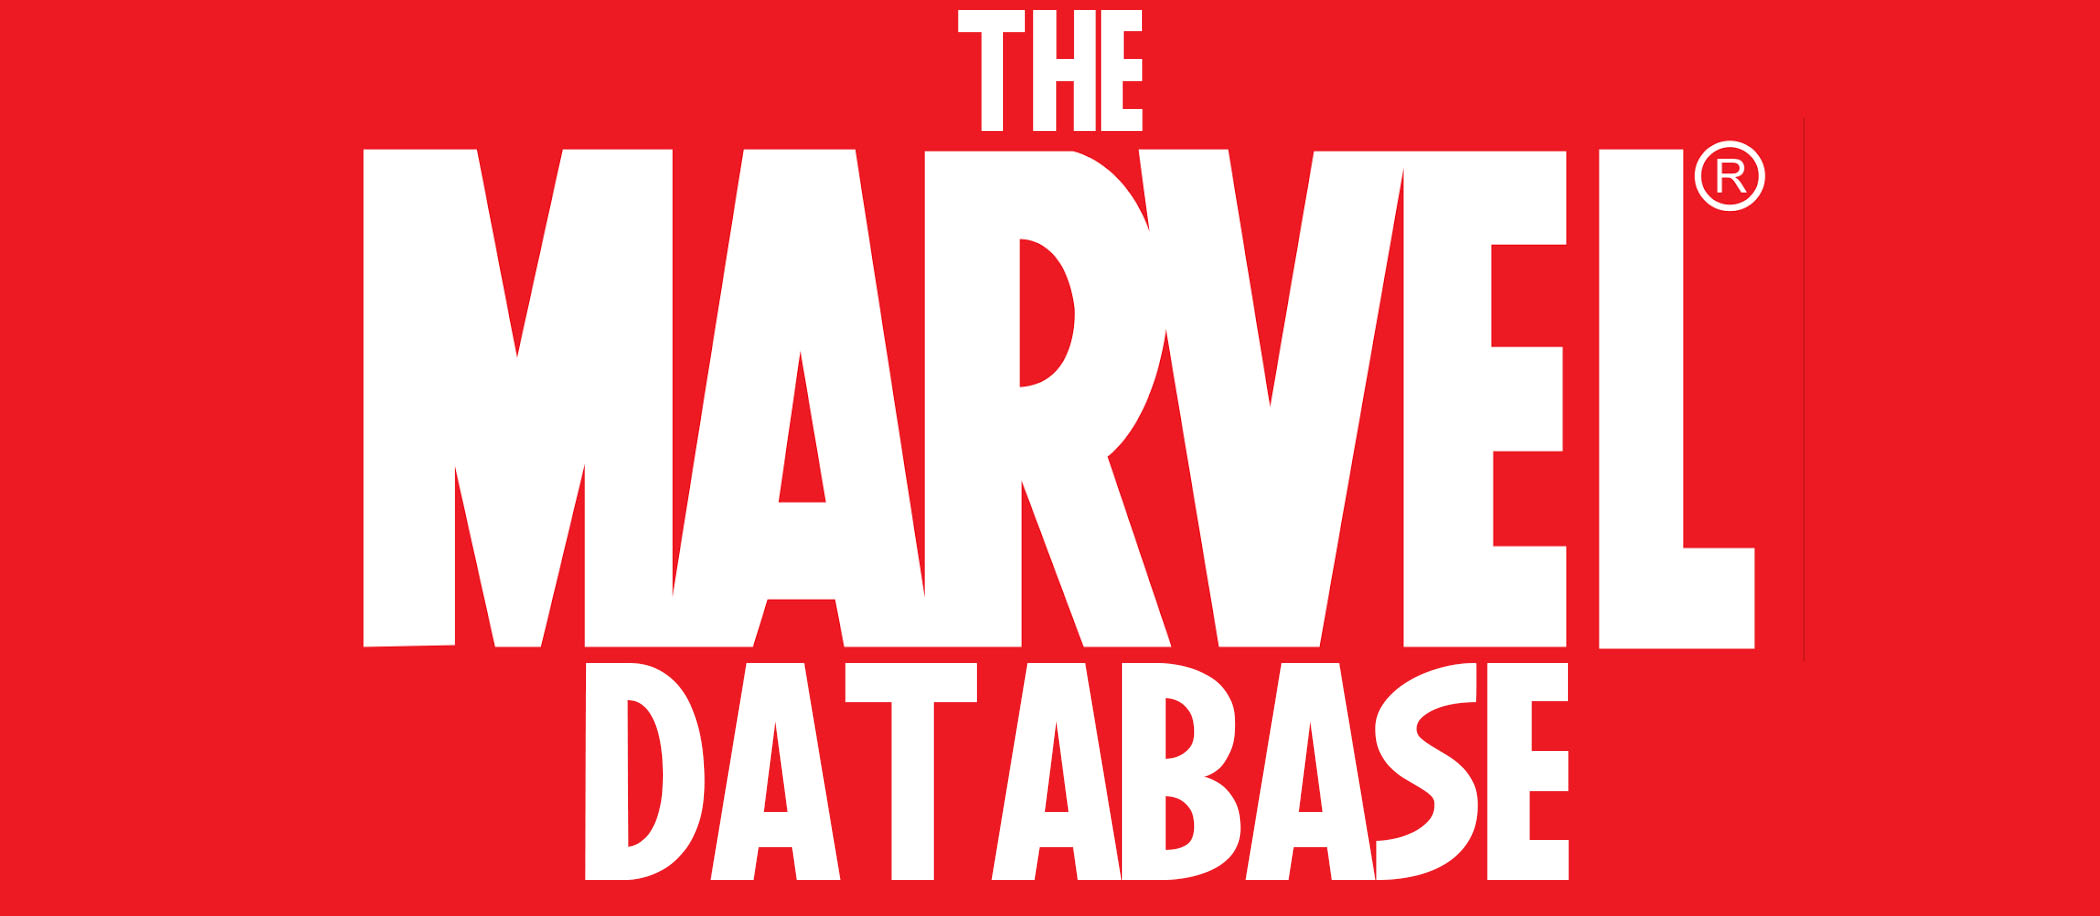
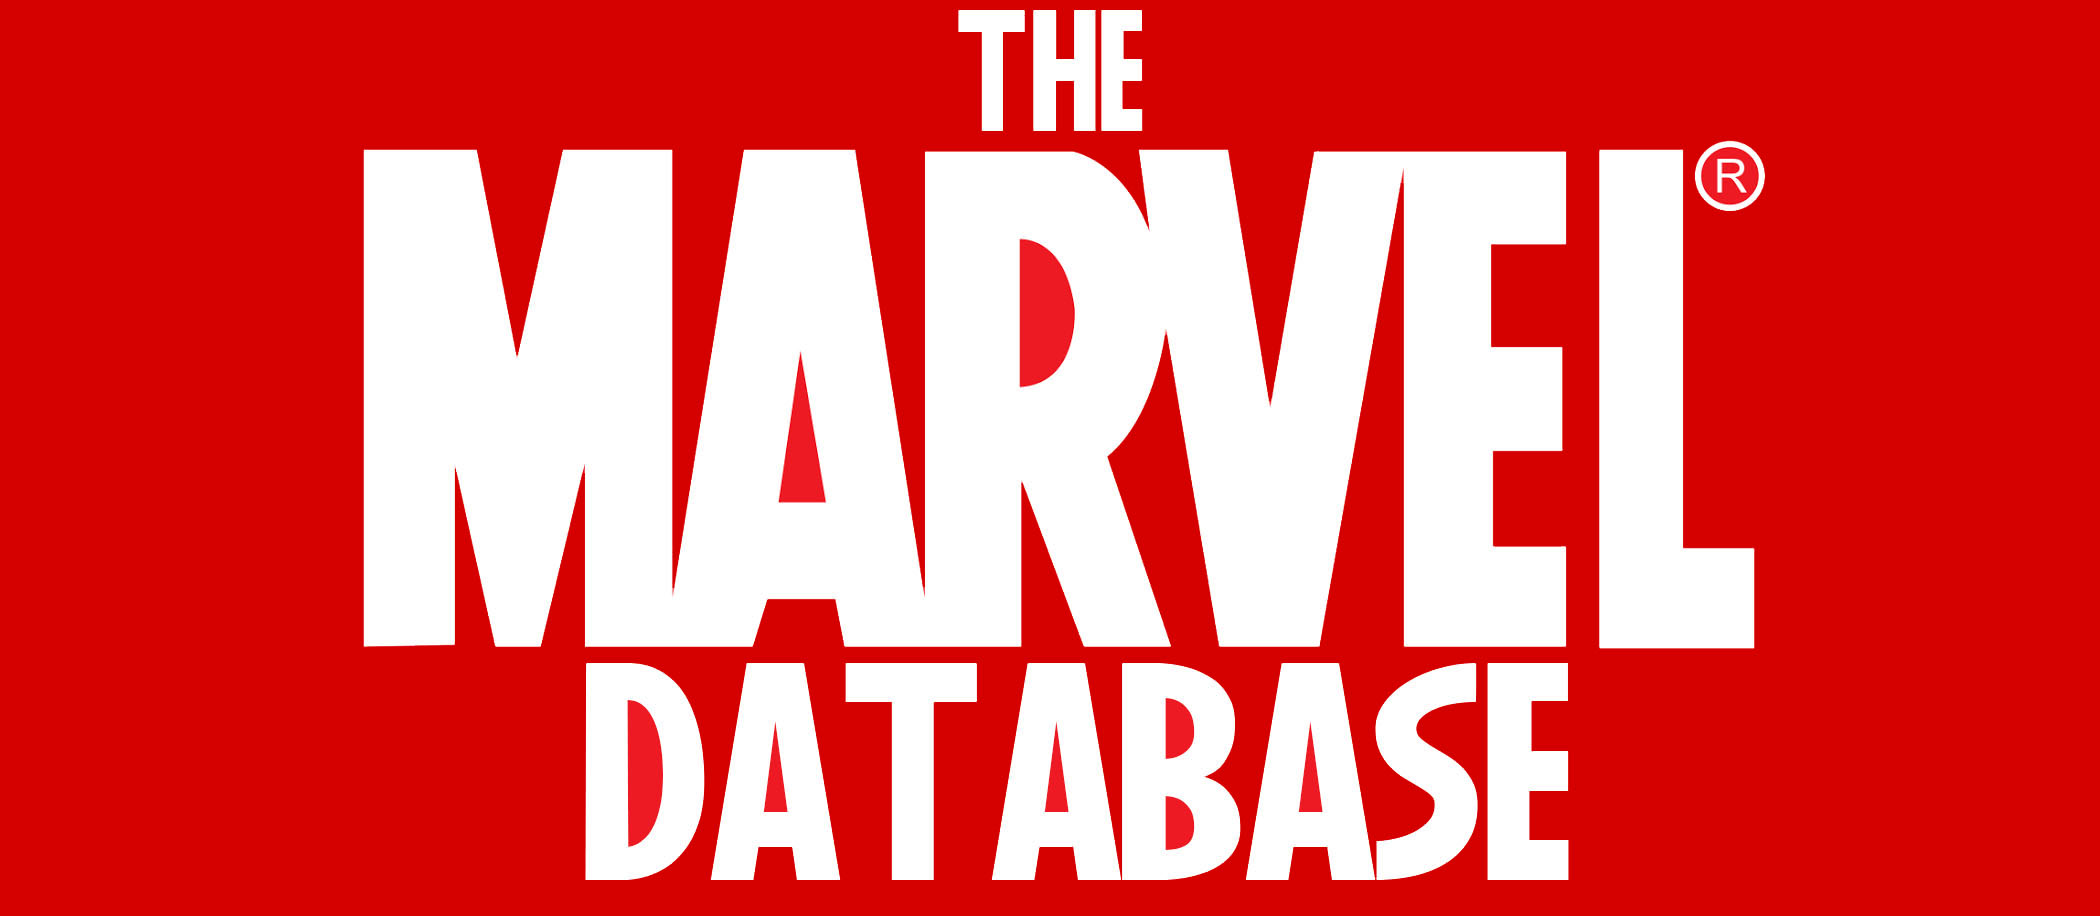
began adding javascript to site, to make the navbar close.

diff --git a/templates/heroes.html b/templates/heroes.html
@@ -1,17 +1,36 @@
 <!DOCTYPE html>
 <html lang="en">
-<button type="sumbit" onclick="window.location.href='{{ url_for('index') }}';">Return Home</button>
+<head>
+    <meta charset="UTF-8">
+    <meta name="viewport" content="width=device-width, initial-scale=1.0">
+    
 
-    <link rel="stylesheet" href="https://cdnjs.cloudflare.com/ajax/libs/materialize/1.0.0/css/materialize.css" type="text/css">
-    <link rel="stylesheet" href="https://cdnjs.cloudflare.com/ajax/libs/font-awesome/5.15.1/css/all.min.css" type="text/css">
-    <link rel="stylesheet" href="{{ url_for('static', filename='css/style.css')  }}" type="text/csss">
-     
+    <link rel="stylesheet" href="https://cdnjs.cloudflare.com/ajax/libs/font-awesome/5.13.1/css/all.min.css"
+        integrity="sha512-xA6Hp6oezhjd6LiLZynuukm80f8BoZ3OpcEYaqKoCV3HKQDrYjDE1Gu8ocxgxoXmwmSzM4iqPvCsOkQNiu41GA==" crossorigin="anonymous" type="text/css">
+    <link rel="stylesheet" href="https://cdnjs.cloudflare.com/ajax/libs/materialize/1.0.0/css/materialize.min.css" type="text/css">
+    <link rel="stylesheet" href="{{ url_for('static', filename='css/style.css') }}" type="text/css">
+
+    <title>Marvel DB - Heroes</title>
+</head>
+<body>
+    <nav class="#d50000 red accent-4">
+    <div class="nav-wrapper">
+    <a href="#" data-activates="mobile-demo" class="button-collapse"><i class="material-icons">menu</i></a>
+      <ul class="right hide-on-med-and-down">
+        <li><a href="{{ url_for( 'index') }}">Home</a></li>
+        <li><a class="active" href="{{ url_for( 'heroes') }}">Heroes</a></li>
+        <li><a href="{{ url_for( 'villains') }}">Villians</a></li>
+      </ul>
+    </div>
+  </nav>
+        
     <div id="wrapperHeader">
     <div id="header">
-             <img src="{{ url_for('static', filename='Marvel.jpg') }}" width="auto" height="200" alt="logo" class="center">
+             <img src="{{ url_for('static', filename='Marvel.jpg') }}" class="center">
     </div> 
-</div>
-  <h2>Find your favourite Heros</h2>
+    </div>
+
+  <h2 class="center">Find your favourite Heros</h2>
   
     <table style="border = 1">
         <tr>
@@ -29,5 +48,12 @@
             </tr>
         {% endfor %}
     </table>
+
+    <script src="https://code.jquery.com/jquery-3.5.1.min.js"
+        integrity="sha256-9/aliU8dGd2tb6OSsuzixeV4y/faTqgFtohetphbbj0=" crossorigin="anonymous"></script>
+    <script src="https://cdnjs.cloudflare.com/ajax/libs/materialize/1.0.0/js/materialize.min.js"></script>
+    <script src="{{ url_for('static', filename='js/script.js') }}"></script>
+    {
+</body>
 </html>
 

diff --git a/templates/villains.html b/templates/villains.html
@@ -6,19 +6,32 @@
 
     <!--Materialize css-->
 
-     <link rel="stylesheet" href="https://cdnjs.cloudflare.com/ajax/libs/materialize/1.0.0/css/materialize.min.css" type="text/css">
-     <link rel="stylesheet" href="https://cdnjs.cloudflare.com/ajax/libs/font-awesome/5.15.1/css/all.min.css" type="text/css">
-     <link rel="stylesheet" href="{{ url_for('static', filename='css/style.css')  }}" type="text/csss">
+     <link rel="stylesheet" href="https://cdnjs.cloudflare.com/ajax/libs/font-awesome/5.13.1/css/all.min.css"
+        integrity="sha512-xA6Hp6oezhjd6LiLZynuukm80f8BoZ3OpcEYaqKoCV3HKQDrYjDE1Gu8ocxgxoXmwmSzM4iqPvCsOkQNiu41GA==" crossorigin="anonymous" type="text/css">
+    <link rel="stylesheet" href="https://cdnjs.cloudflare.com/ajax/libs/materialize/1.0.0/css/materialize.min.css" type="text/css">
+    <link rel="stylesheet" href="{{ url_for('static', filename='css/style.css') }}" type="text/css">
 
     <title>Villians</title>
 </head>
 <body>
-<div id="wrapperHeader">
+
+    <nav class="#d50000 red accent-4">
+    <div class="nav-wrapper">
+      <ul id="nav-mobile" class="right hide-on-med-and-down">
+        <li><a class="active" href="{{ url_for( 'index') }}">Home</a></li>
+        <li><a href="{{ url_for( 'heroes') }}">Heroes</a></li>
+        <li><a href="{{ url_for( 'villains') }}">Villians</a></li>
+      </ul>
+    </div>
+  </nav>
+
+  <div id="wrapperHeader">
     <div id="header">
-             <img src="{{ url_for('static', filename='Marvel.jpg') }}" width="auto" height="200" alt="logo" class="center">
+             <img src="{{ url_for('static', filename='Marvel.jpg') }}" class="center">
     </div> 
 </div>
-    <h2>Find your favourite Villians </h2>
+
+    <h2 class="center">Find your favourite Villians </h2>
     <table style="border = 1">
         <tr>
             {% for header in headers %}
@@ -36,6 +49,11 @@
         {% endfor %}
     </table>
 
+
+    <script src="https://code.jquery.com/jquery-3.5.1.min.js"
+        integrity="sha256-9/aliU8dGd2tb6OSsuzixeV4y/faTqgFtohetphbbj0=" crossorigin="anonymous"></script>
+    <script src="https://cdnjs.cloudflare.com/ajax/libs/materialize/1.0.0/js/materialize.min.js"></script>
+    <script src="{{ url_for('static', filename='js/script.js') }}"></script>
 </body>
 </html>
 

diff --git a/templates/index.html b/templates/index.html
@@ -3,23 +3,27 @@
 <head>
     <meta charset="UTF-8">
     <meta name="viewport" content="width=device-width, initial-scale=1.0">
+    
 
-    <!--Materialize css-->
+    <link rel="stylesheet" href="https://cdnjs.cloudflare.com/ajax/libs/font-awesome/5.13.1/css/all.min.css"
+        integrity="sha512-xA6Hp6oezhjd6LiLZynuukm80f8BoZ3OpcEYaqKoCV3HKQDrYjDE1Gu8ocxgxoXmwmSzM4iqPvCsOkQNiu41GA==" crossorigin="anonymous" type="text/css">
+    <link rel="stylesheet" href="https://cdnjs.cloudflare.com/ajax/libs/materialize/1.0.0/css/materialize.min.css" type="text/css">
+    <link rel="stylesheet" href="{{ url_for('static', filename='css/style.css') }}" type="text/css">
 
-     <link rel="stylesheet" href="https://cdnjs.cloudflare.com/ajax/libs/materialize/1.0.0/css/materialize.min.css" type="text/css">
-     <link rel="stylesheet" href="https://cdnjs.cloudflare.com/ajax/libs/font-awesome/5.15.1/css/all.min.css" type="text/css">
-     <link rel="stylesheet" href="{{ url_for('static', filename='css/style.css')  }}" type="text/csss">
-
-    <title>Heroes</title>
+    <title>Marvel DB</title>
 </head>
+
+
 <body>
     <div id="wrapperHeader">
     <div id="header">
-             <img src="{{ url_for('static', filename='Marvel.jpg') }}" width="auto" height="200" alt="logo" class="center">
+             <img src="{{ url_for('static', filename='Marvel.jpg') }}" class="center">
     </div> 
 </div>
-    <h3>Pick a side</h3>
-    <button type="sumbit" onclick="window.location.href='{{ url_for( 'heroes') }}';">Heroes</button>
-    <button type="sumbit" onclick="window.location.href='{{ url_for( 'villains') }}';">Villains</button>
+    <h3 class="center" >Pick a side</h3>
+    <button type="sumbit" onclick="window.location.href='{{ url_for( 'heroes') }}';" class="center">Heroes</button>
+    <button type="sumbit" onclick="window.location.href='{{ url_for( 'villains') }}';" class="center">Villains</button>
+
+    </body>
 </html>
 

diff --git a/templates/base.html b/templates/base.html
@@ -5,13 +5,10 @@
     <meta name="viewport" content="width=device-width, initial-scale=1.0">
 
     <!--Materialize css-->
-
-     <link rel="stylesheet" href="https://cdnjs.cloudflare.com/ajax/libs/materialize/1.0.0/css/materialize.min.css" type="text/css">
-     <link rel="stylesheet" href="https://cdnjs.cloudflare.com/ajax/libs/font-awesome/5.15.1/css/all.min.css" type="text/css">
-     <link rel="stylesheet" href="{{ url_for('static', filename='css/style.css')  }}" type="text/csss">
-    {% block Styles %}
-    {% endblock %}
-
+    <link rel="stylesheet" href="https://cdnjs.cloudflare.com/ajax/libs/font-awesome/5.13.1/css/all.min.css"
+        integrity="sha512-xA6Hp6oezhjd6LiLZynuukm80f8BoZ3OpcEYaqKoCV3HKQDrYjDE1Gu8ocxgxoXmwmSzM4iqPvCsOkQNiu41GA==" crossorigin="anonymous" type="text/css">
+    <link rel="stylesheet" href="https://cdnjs.cloudflare.com/ajax/libs/materialize/1.0.0/css/materialize.min.css" type="text/css">
+    <link rel="stylesheet" href="{{ url_for('static', filename='css/style.css') }}" type="text/css">
 
     <title>MARVEL DB</title>
 </head>

diff --git a/static/css/style.css b/static/css/style.css
@@ -1,6 +1,6 @@
 body { 
     background-image: url('Marvel.jpg');
-
+    background-colour: ed1d24;
 }
 
 .center {
@@ -8,4 +8,9 @@ body {
   margin-left: auto;
   margin-right: auto;
   width: 50%;
+}
+
+
+.red { 
+    background-color:  !important;
 }

diff --git a/static/js/script.js b/static/js/script.js
@@ -1,0 +1,8 @@
+
+$(document).ready(function() {
+ 
+    $(".button-collapse").sideNav();
+        
+  });
+
+  
